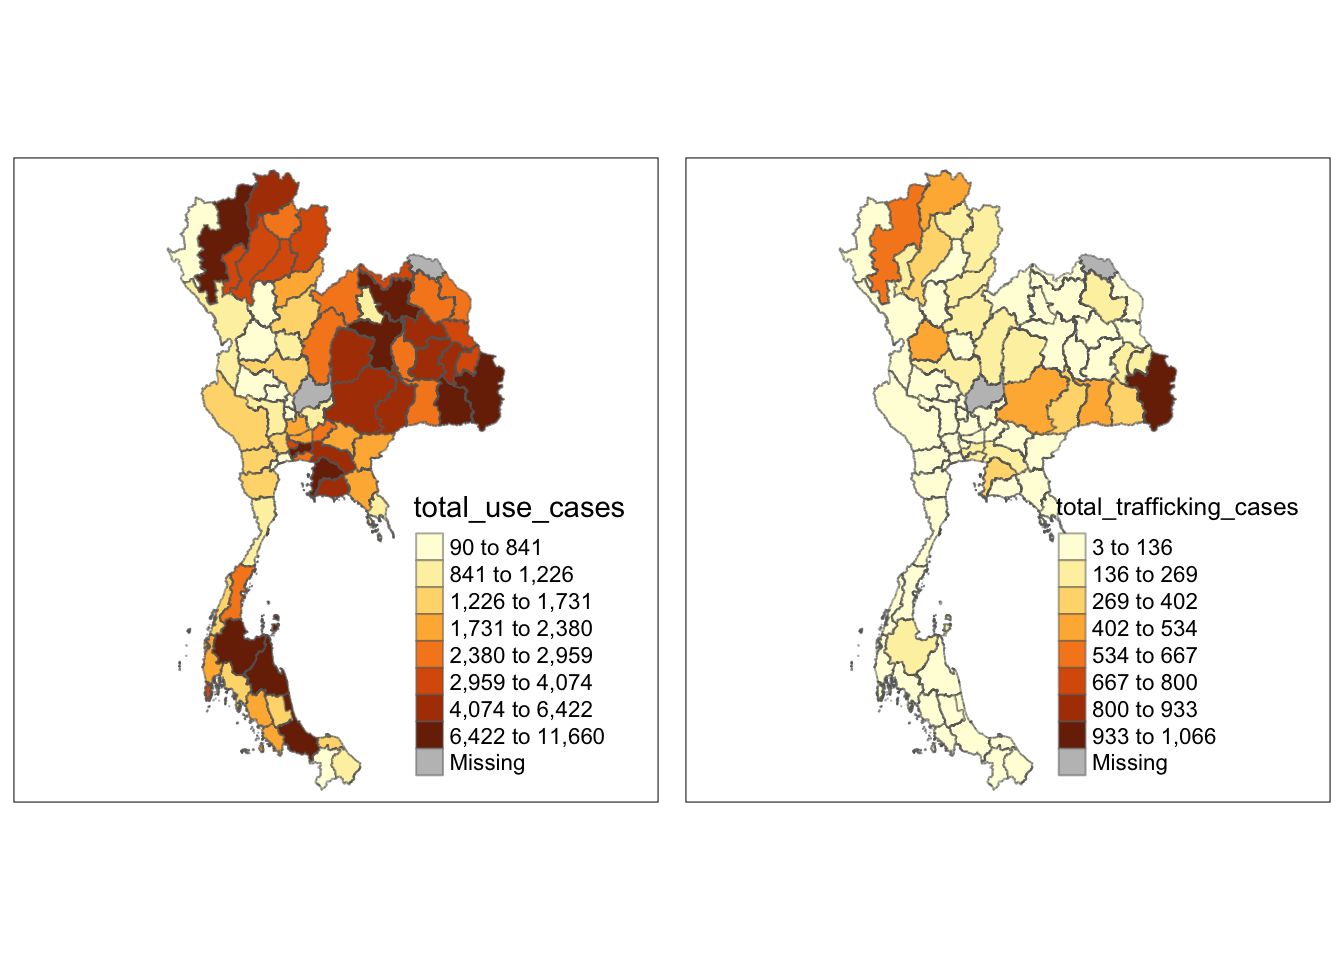
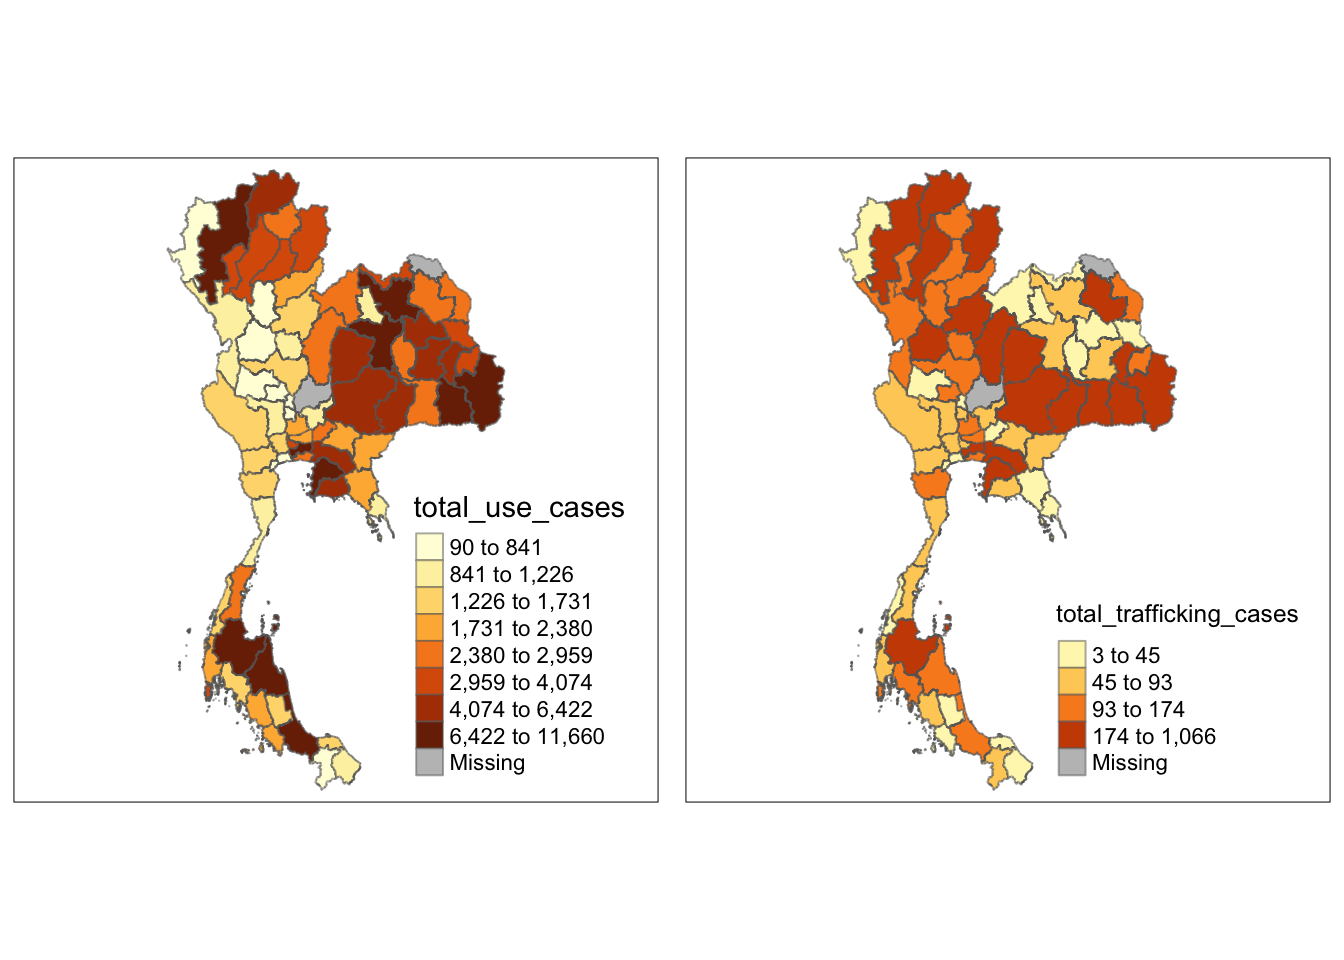
TH2

Changed region(s): [[0.625, 0.1562, 0.9688, 0.8125], [0.9375, 0.5, 0.9688, 0.5312]]

diff --git a/_site/TakeHome/TakeHome2/take-home-2.html b/_site/TakeHome/TakeHome2/take-home-2.html
@@ -235,6 +235,7 @@ pre > code.sourceCode > span > a:first-child::before { text-decoration: underlin
   <li><a href="#th2.5.1-data-preparation---spatial-weights" id="toc-th2.5.1-data-preparation---spatial-weights" class="nav-link" data-scroll-target="#th2.5.1-data-preparation---spatial-weights">TH2.5.1 Data Preparation - Spatial Weights</a></li>
   <li><a href="#th2.5.2-morans-i" id="toc-th2.5.2-morans-i" class="nav-link" data-scroll-target="#th2.5.2-morans-i">TH2.5.2 Moran’s I</a></li>
   </ul></li>
+  <li><a href="#th2.6-gearys-c" id="toc-th2.6-gearys-c" class="nav-link" data-scroll-target="#th2.6-gearys-c">TH2.6 Geary’s C</a></li>
   <li><a href="#references" id="toc-references" class="nav-link" data-scroll-target="#references">References</a></li>
   </ul>
 </nav>
@@ -269,7 +270,7 @@ pre > code.sourceCode > span > a:first-child::before { text-decoration: underlin
     <div>
     <div class="quarto-title-meta-heading">Modified</div>
     <div class="quarto-title-meta-contents">
-      <p class="date-modified">October 1, 2024</p>
+      <p class="date-modified">October 2, 2024</p>
     </div>
   </div>
     
@@ -313,7 +314,7 @@ pre > code.sourceCode > span > a:first-child::before { text-decoration: underlin
 <div class="sourceCode cell-code" id="cb2"><pre class="sourceCode r code-with-copy"><code class="sourceCode r"><span id="cb2-1"><a href="#cb2-1" aria-hidden="true" tabindex="-1"></a>thailand <span class="ot">&lt;-</span> <span class="fu">st_read</span>(<span class="at">dsn=</span><span class="st">"data/geospatial"</span>, <span class="at">layer=</span><span class="st">"tha_admbnda_adm1_rtsd_20220121"</span>)</span></code><button title="Copy to Clipboard" class="code-copy-button"><i class="bi"></i></button></pre></div>
 <div class="cell-output cell-output-stdout">
 <pre><code>Reading layer `tha_admbnda_adm1_rtsd_20220121' from data source 
-  `/Users/kendricktty/Gits/smu_cs/is415-site/TakeHome/TakeHome2/data/geospatial' 
+  `/Users/kendricktty/Gits/SMU_CS/is415-site/TakeHome/TakeHome2/data/geospatial' 
   using driver `ESRI Shapefile'
 Simple feature collection with 77 features and 16 fields
 Geometry type: MULTIPOLYGON
@@ -630,7 +631,7 @@ First 10 features:
 </div>
 <div class="cell">
 <div class="sourceCode cell-code" id="cb25"><pre class="sourceCode r code-with-copy"><code class="sourceCode r"><span id="cb25-1"><a href="#cb25-1" aria-hidden="true" tabindex="-1"></a>use_map <span class="ot">&lt;-</span> <span class="fu">tm_shape</span>(thailand_2021) <span class="sc">+</span> <span class="fu">tm_fill</span>(<span class="st">"total_use_cases"</span>, <span class="at">n =</span> <span class="dv">8</span>, <span class="at">style =</span> <span class="st">"quantile"</span>) <span class="sc">+</span> <span class="fu">tm_borders</span>(<span class="at">alpha =</span> <span class="fl">0.5</span>)</span>
-<span id="cb25-2"><a href="#cb25-2" aria-hidden="true" tabindex="-1"></a>trafficking_map <span class="ot">&lt;-</span> <span class="fu">tm_shape</span>(thailand_2021) <span class="sc">+</span> <span class="fu">tm_fill</span>(<span class="st">"total_trafficking_cases"</span>, <span class="at">n =</span> <span class="dv">8</span>, <span class="at">style =</span> <span class="st">"equal"</span>) <span class="sc">+</span> <span class="fu">tm_borders</span>(<span class="at">alpha =</span> <span class="fl">0.5</span>)</span>
+<span id="cb25-2"><a href="#cb25-2" aria-hidden="true" tabindex="-1"></a>trafficking_map <span class="ot">&lt;-</span> <span class="fu">tm_shape</span>(thailand_2021) <span class="sc">+</span> <span class="fu">tm_fill</span>(<span class="st">"total_trafficking_cases"</span>, <span class="at">n =</span> <span class="dv">4</span>, <span class="at">style =</span> <span class="st">"quantile"</span>, <span class="at">colourRamp =</span> <span class="st">"blues"</span>) <span class="sc">+</span> <span class="fu">tm_borders</span>(<span class="at">alpha =</span> <span class="fl">0.5</span>)</span>
 <span id="cb25-3"><a href="#cb25-3" aria-hidden="true" tabindex="-1"></a><span class="fu">tmap_arrange</span>(use_map, trafficking_map, <span class="at">asp =</span> <span class="dv">1</span>, <span class="at">ncol =</span> <span class="dv">2</span>)</span></code><button title="Copy to Clipboard" class="code-copy-button"><i class="bi"></i></button></pre></div>
 <div class="cell-output-display">
 <div>
@@ -812,7 +813,67 @@ alternative hypothesis: greater</code></pre>
 </ul>
 <p>This shows that provinces with high drug use in Thailand can, to a limited extent, be near one another.</p>
 </section>
+<section id="th2.5.2.2-morans-i-on-drug_trafficking-statistics" class="level4">
+<h4 class="anchored" data-anchor-id="th2.5.2.2-morans-i-on-drug_trafficking-statistics">TH2.5.2.2 Moran’s I on <code>drug_trafficking</code> statistics</h4>
+<div class="cell">
+<div class="sourceCode cell-code" id="cb45"><pre class="sourceCode r code-with-copy"><code class="sourceCode r"><span id="cb45-1"><a href="#cb45-1" aria-hidden="true" tabindex="-1"></a><span class="fu">moran.test</span>(thailand_2021<span class="sc">$</span>total_trafficking_cases, <span class="at">listw=</span>rswm_q_tr, <span class="at">zero.policy =</span> <span class="cn">TRUE</span>, <span class="at">na.action=</span>na.omit)</span></code><button title="Copy to Clipboard" class="code-copy-button"><i class="bi"></i></button></pre></div>
+<div class="cell-output cell-output-stdout">
+<pre><code>
+    Moran I test under randomisation
+
+data:  thailand_2021$total_trafficking_cases  
+weights: rswm_q_tr 
+omitted: 7, 27 
+n reduced by no-neighbour observations  
+
+Moran I statistic standard deviate = 3.2362, p-value = 0.0006056
+alternative hypothesis: greater
+sample estimates:
+Moran I statistic       Expectation          Variance 
+      0.219471787      -0.013698630       0.005191187 </code></pre>
+</div>
+<div class="sourceCode cell-code" id="cb47"><pre class="sourceCode r code-with-copy"><code class="sourceCode r"><span id="cb47-1"><a href="#cb47-1" aria-hidden="true" tabindex="-1"></a><span class="fu">set.seed</span>(<span class="dv">1234</span>)</span>
+<span id="cb47-2"><a href="#cb47-2" aria-hidden="true" tabindex="-1"></a>bperm_tr <span class="ot">&lt;-</span> <span class="fu">moran.mc</span>(thailand_2021<span class="sc">$</span>total_trafficking_cases, </span>
+<span id="cb47-3"><a href="#cb47-3" aria-hidden="true" tabindex="-1"></a>                <span class="at">listw=</span>rswm_q_tr, </span>
+<span id="cb47-4"><a href="#cb47-4" aria-hidden="true" tabindex="-1"></a>                <span class="at">nsim=</span><span class="dv">999</span>, </span>
+<span id="cb47-5"><a href="#cb47-5" aria-hidden="true" tabindex="-1"></a>                <span class="at">zero.policy =</span> <span class="cn">TRUE</span>, </span>
+<span id="cb47-6"><a href="#cb47-6" aria-hidden="true" tabindex="-1"></a>                <span class="at">na.action=</span>na.omit)</span>
+<span id="cb47-7"><a href="#cb47-7" aria-hidden="true" tabindex="-1"></a>bperm_tr</span></code><button title="Copy to Clipboard" class="code-copy-button"><i class="bi"></i></button></pre></div>
+<div class="cell-output cell-output-stdout">
+<pre><code>
+    Monte-Carlo simulation of Moran I
+
+data:  thailand_2021$total_trafficking_cases 
+weights: rswm_q_tr 
+omitted: 7, 27 
+number of simulations + 1: 1000 
+
+statistic = 0.21947, observed rank = 992, p-value = 0.008
+alternative hypothesis: greater</code></pre>
+</div>
+<div class="sourceCode cell-code" id="cb49"><pre class="sourceCode r code-with-copy"><code class="sourceCode r"><span id="cb49-1"><a href="#cb49-1" aria-hidden="true" tabindex="-1"></a><span class="fu">hist</span>(bperm_use<span class="sc">$</span>res, <span class="at">main =</span> <span class="st">"Global Moran's I Simulation Results for drug_trafficking"</span>, <span class="at">xlab=</span><span class="st">"Monte-Carlo Results"</span>, <span class="at">ylab=</span><span class="st">"Frequency"</span>) </span>
+<span id="cb49-2"><a href="#cb49-2" aria-hidden="true" tabindex="-1"></a><span class="fu">abline</span>(<span class="at">v =</span> bperm_tr<span class="sc">$</span>statistic, <span class="at">col =</span> <span class="st">"purple4"</span>)</span></code><button title="Copy to Clipboard" class="code-copy-button"><i class="bi"></i></button></pre></div>
+<div class="cell-output-display">
+<div>
+<figure class="figure">
+<p><img src="take-home-2_files/figure-html/unnamed-chunk-14-1.png" class="img-fluid figure-img" width="672"></p>
+</figure>
+</div>
+</div>
+</div>
+<p>The output for our <code>drug_trafficking</code> statistics is similar to that for our <code>drug_use</code> statistics, and can be interpreted as follows:</p>
+<ul>
+<li>The Moran’s I statistic is approximately <code>0.22</code>, which is significantly higher than the expected value of <code>-0.014</code>. This is a significant indicator of positive spatial autocorrelation, but only to a moderate degree.</li>
+<li>With a standard deviation of <code>3.24 and p-value of</code>0.006 &lt; 0.05`, the test result is statistically significant. We can reject the null hypothesis of a lack of spatial autocorrelation.</li>
+<li>After 1000 permutations, we get a similar Moran’s I observation of <code>0.21947</code>, with a p-value of <code>0.008</code>. Therefore, our result is stable and statistically significant.</li>
+</ul>
+<p>Like drug use, the results show that provinces with high drug trafficking in Thailand can, to a limited extent, be near one another.</p>
 </section>
+</section>
+</section>
+<section id="th2.6-gearys-c" class="level2">
+<h2 class="anchored" data-anchor-id="th2.6-gearys-c">TH2.6 Geary’s C</h2>
+<p>Geary’s C is another measure of global spatial autocorrelation that describes how features differ from their immediate neighbours. When <code>C &gt; 1</code>, the points are dispersed, and while <code>C &lt; 1</code>, the points are clustered. A <code>C</code> value of <code>1</code> indicates observations are randomly arranged in space. Geary’s C approaches <code>0</code> when similar values are clustered, and approaches <code>3</code> when dissimilar values are clustered. Geary’s C is inversely proportional to Moran’s I, so higher Cs correspond to lower Is.</p>
 </section>
 <section id="references" class="level2">
 <h2 class="anchored" data-anchor-id="references">References</h2>
